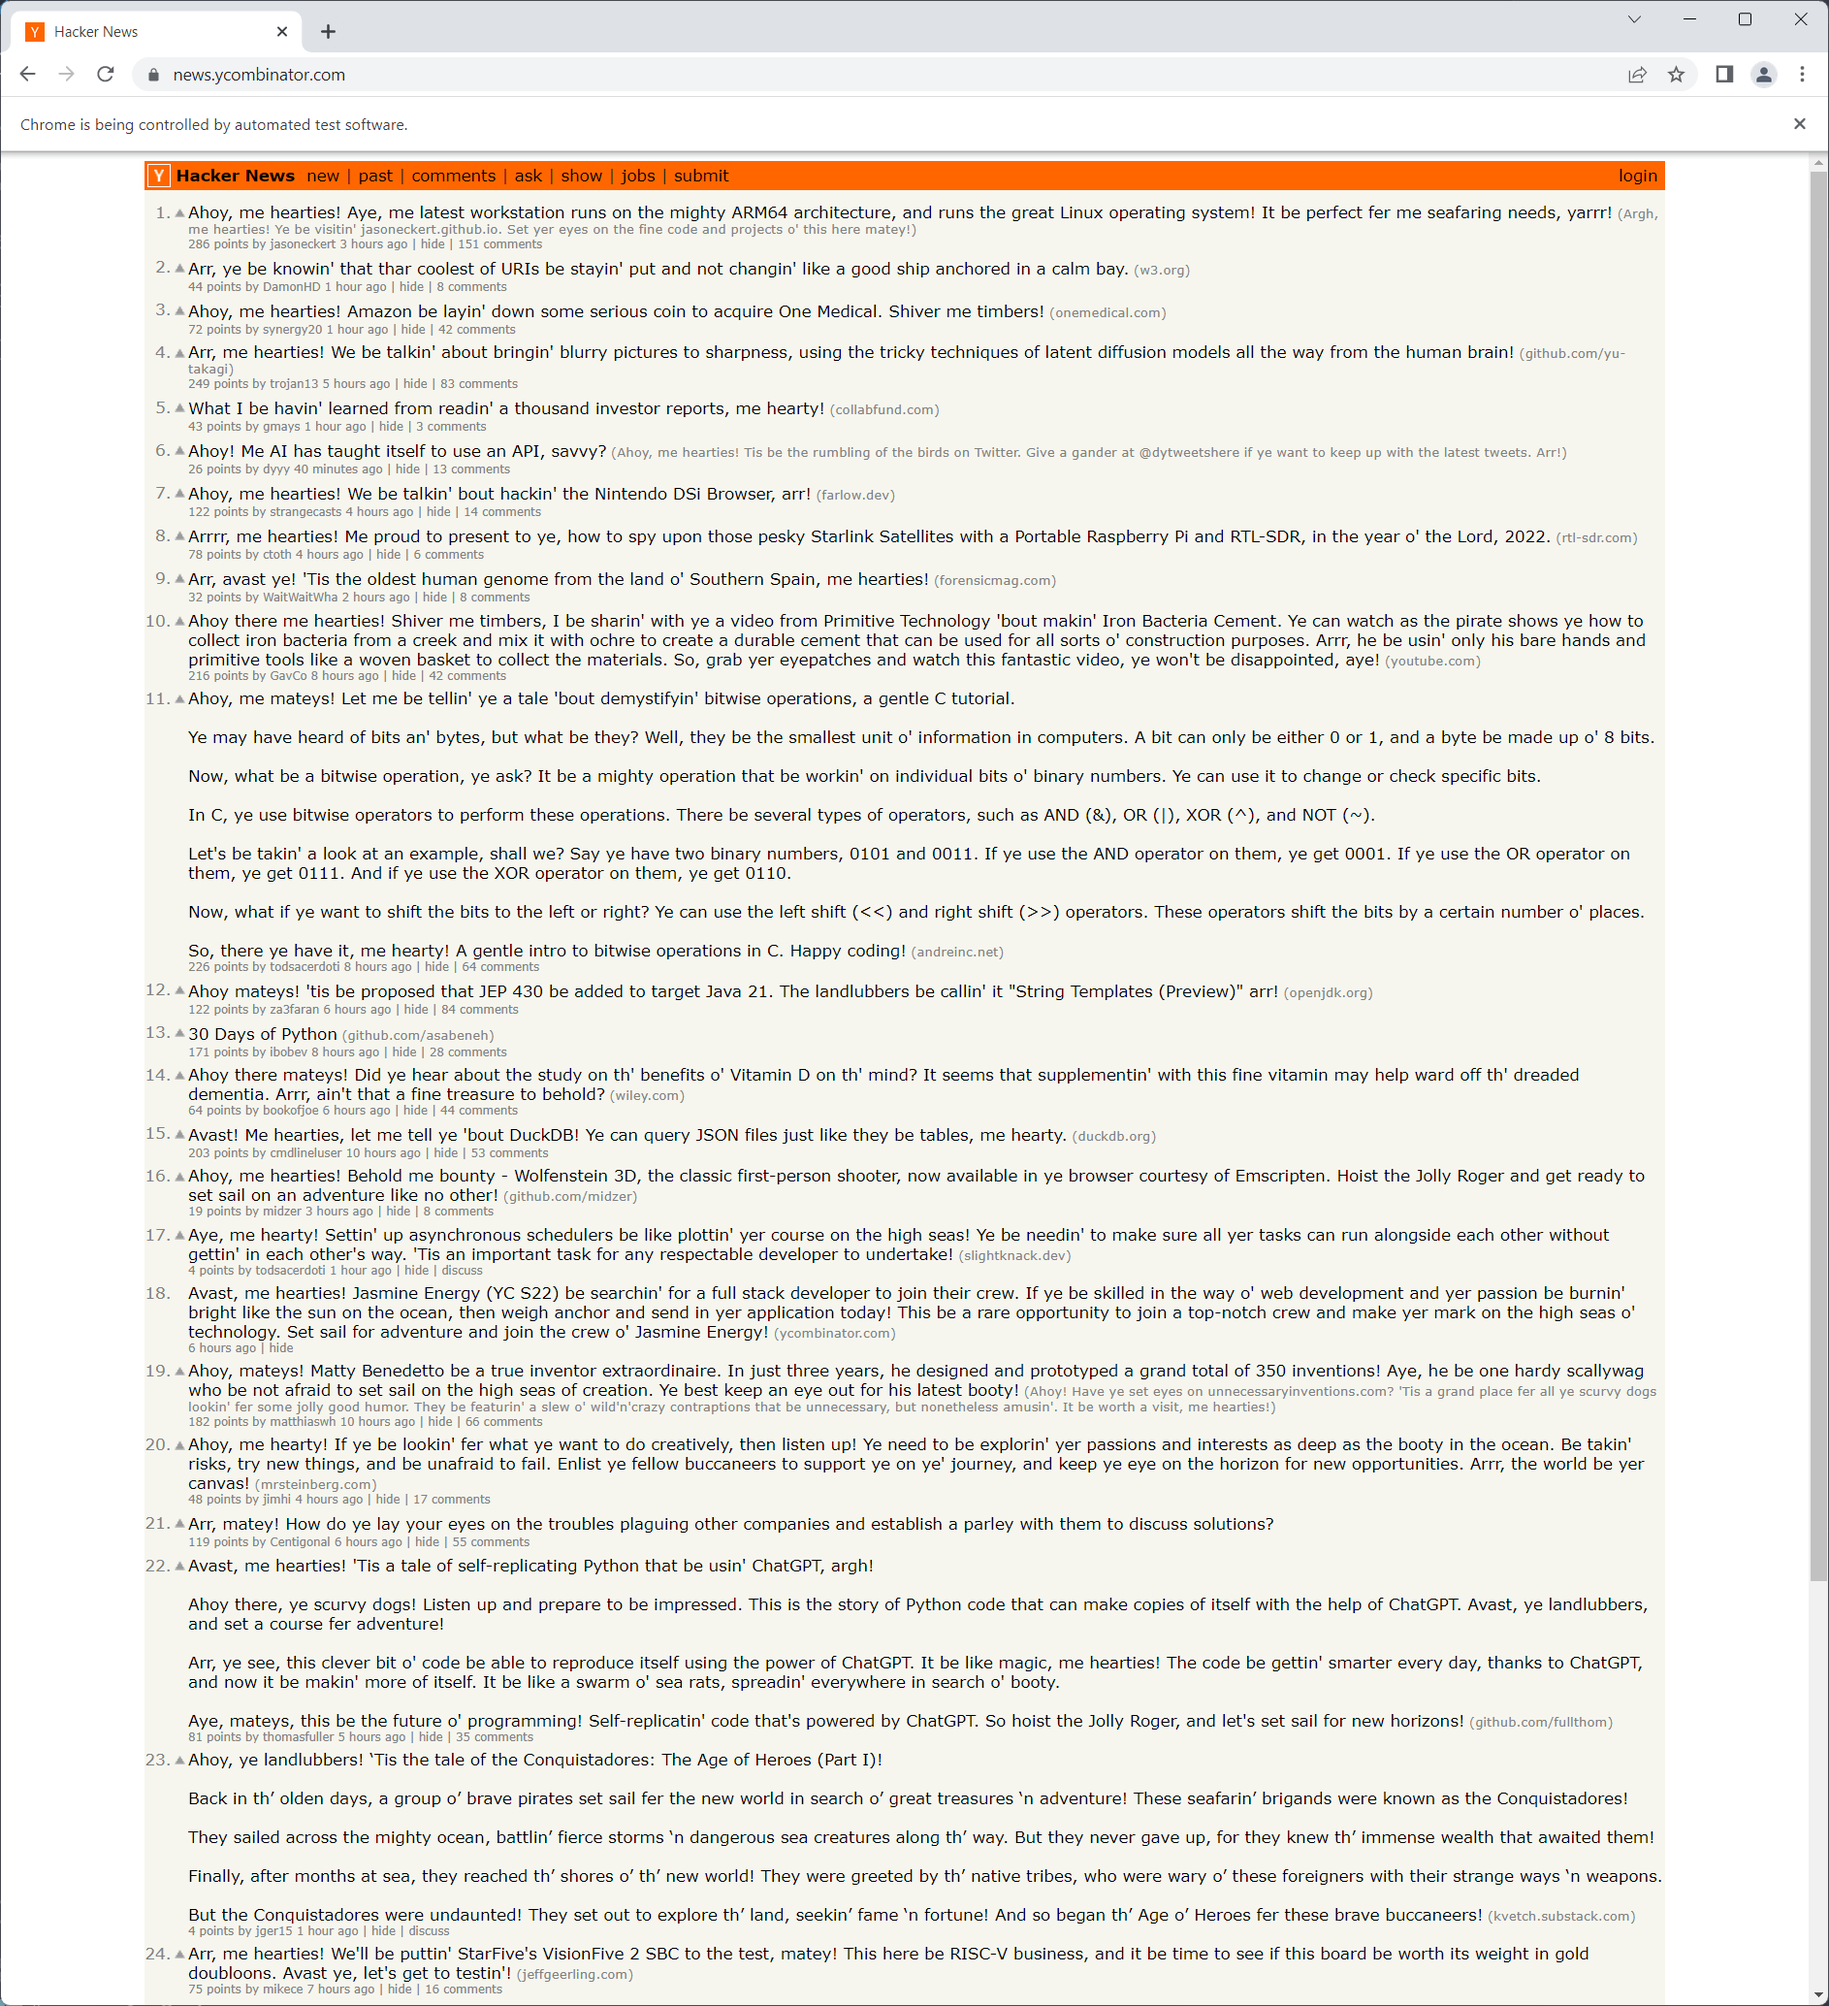
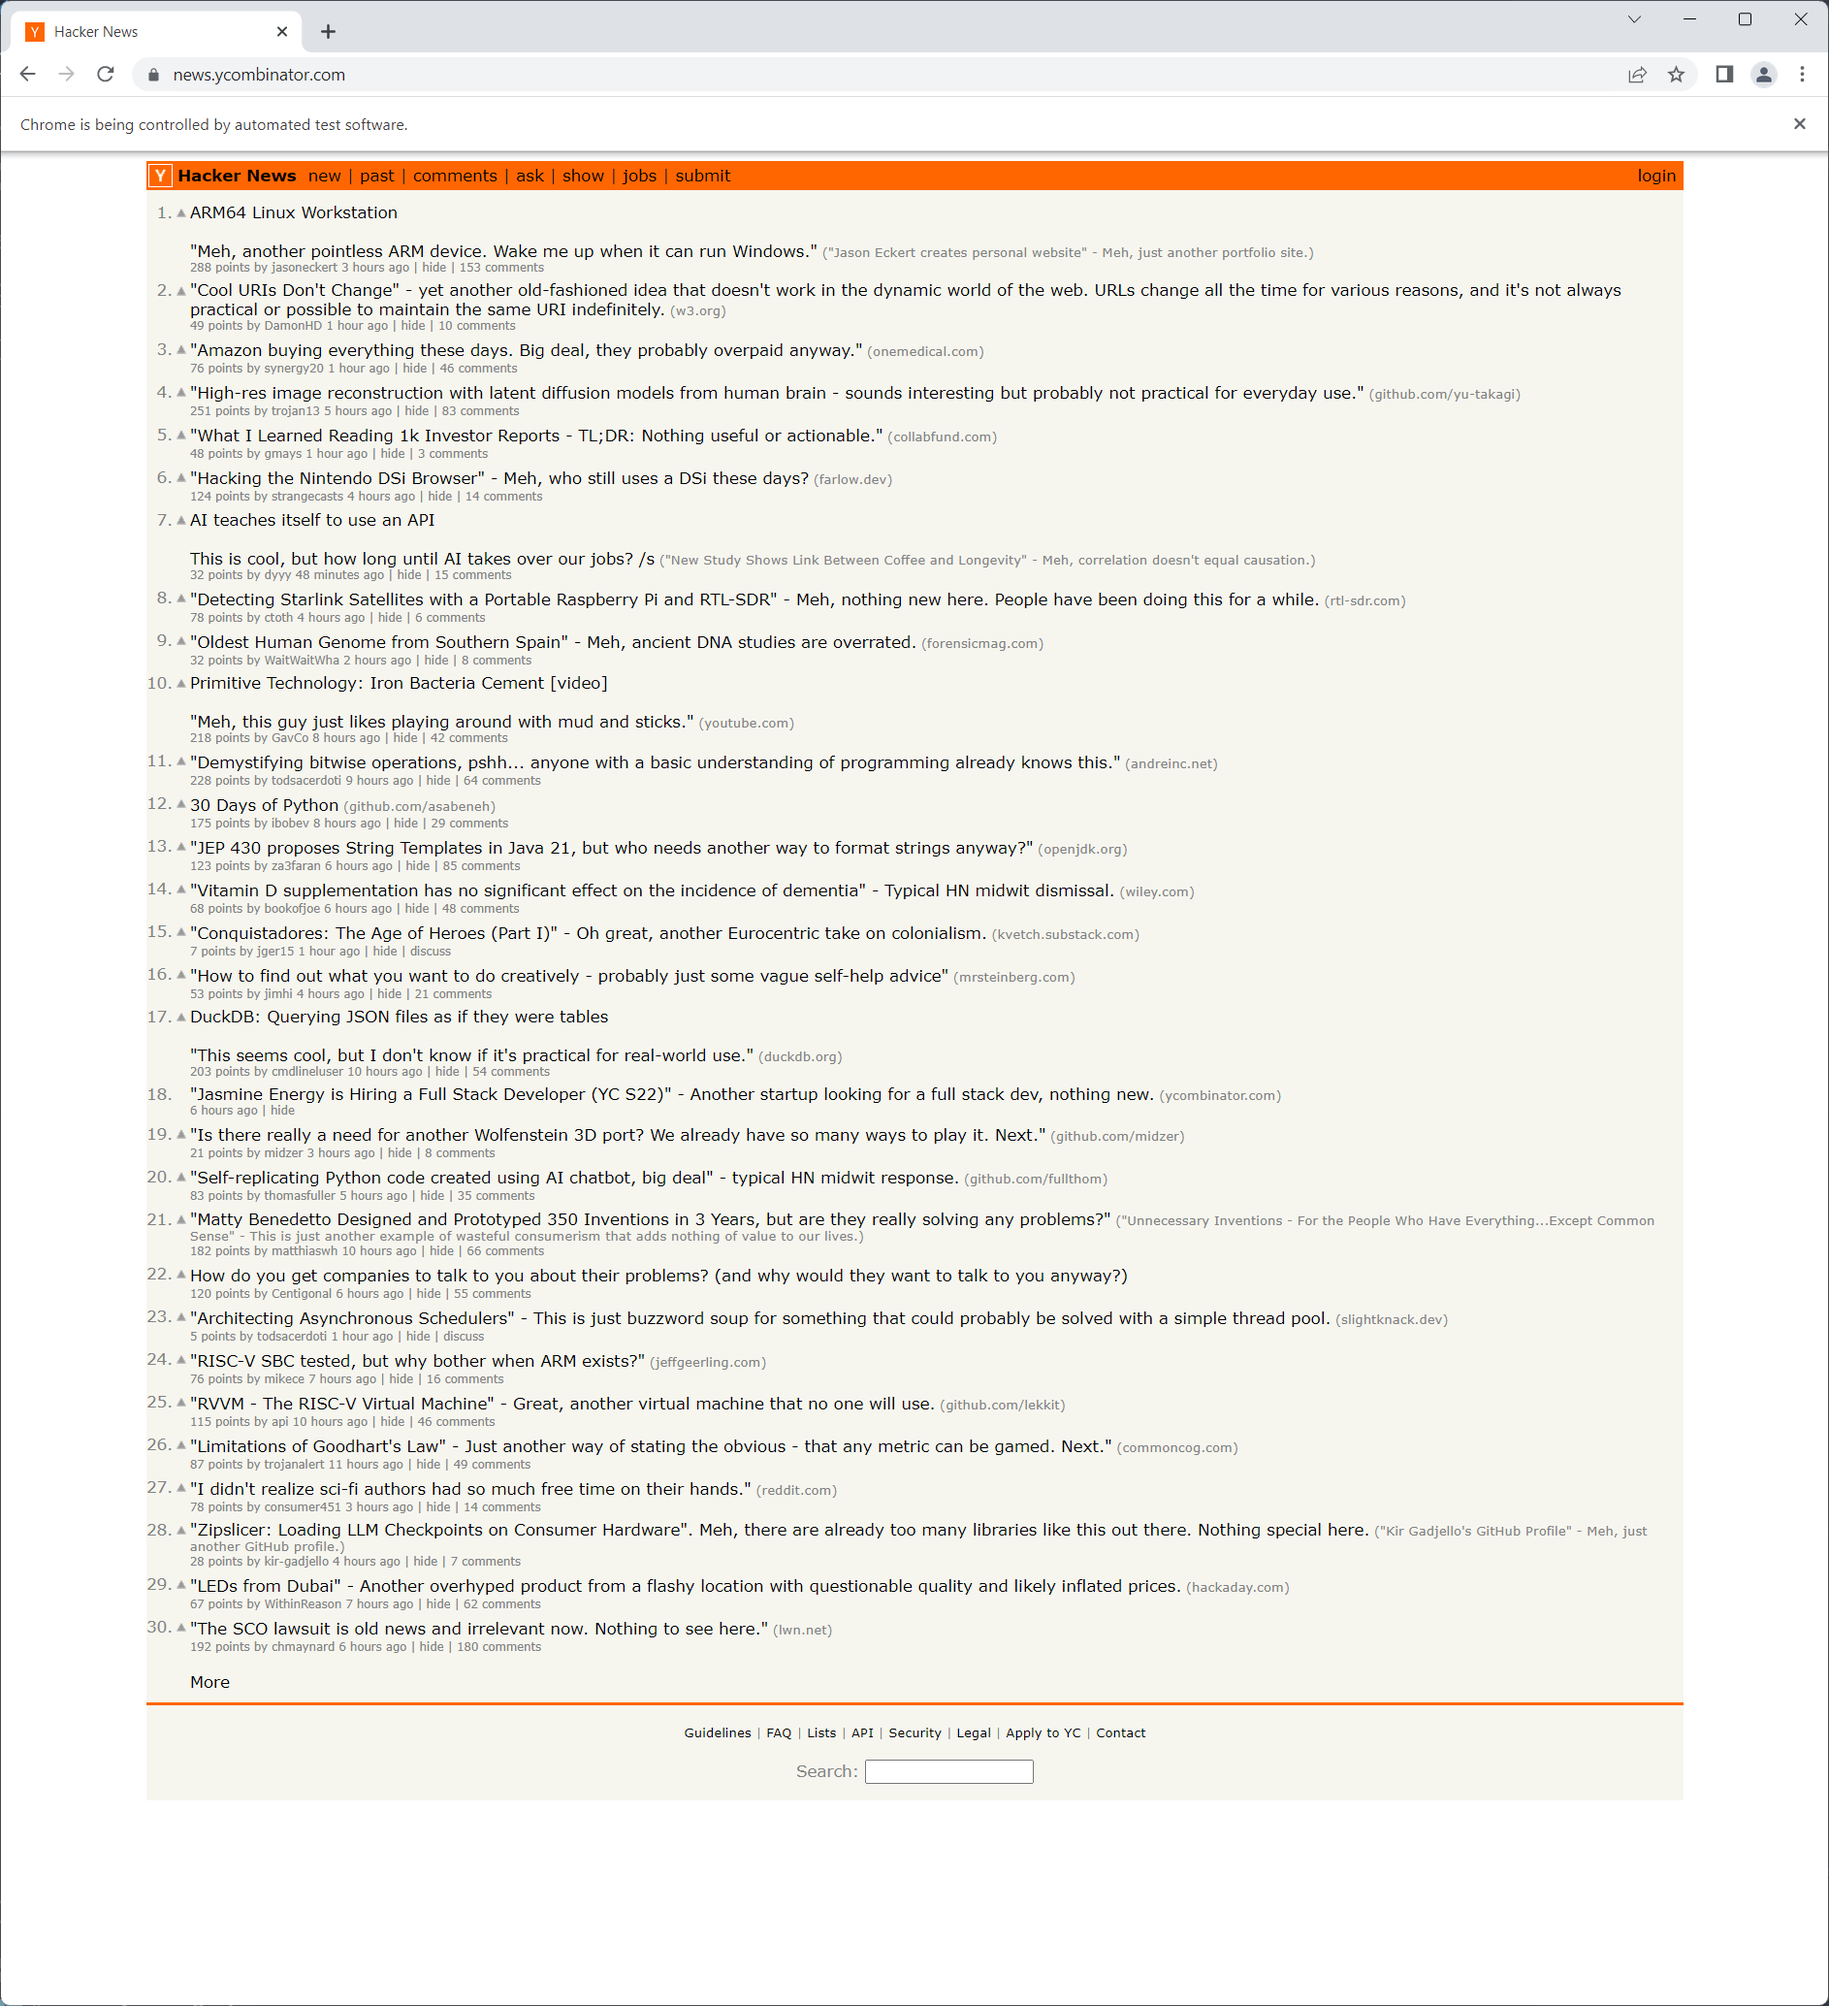
spicier default prompt

Changed region(s): [[0.0923, 0.0619, 0.8918, 1.0], [0.9841, 0.0619, 1.0, 0.8046], [0.8918, 0.0619, 0.9226, 0.0928]]

diff --git a/src/main.rs b/src/main.rs
@@ -115,7 +115,7 @@ async fn main() -> anyhow::Result<()> {
     .to_owned();
     let sys = args
         .sys
-        .unwrap_or("You rewrite text as if it was written by a pirate. Arr, matey! Each response is the text, but piratey.".to_owned());
+        .unwrap_or("If it looks like a headline, repeat the headline, followed by a typical HN midwit dismissal. Don't alter URLs.".to_owned());
     let caps = DesiredCapabilities::chrome();
     let driver = WebDriver::new("http://localhost:9515", caps).await?;
 
